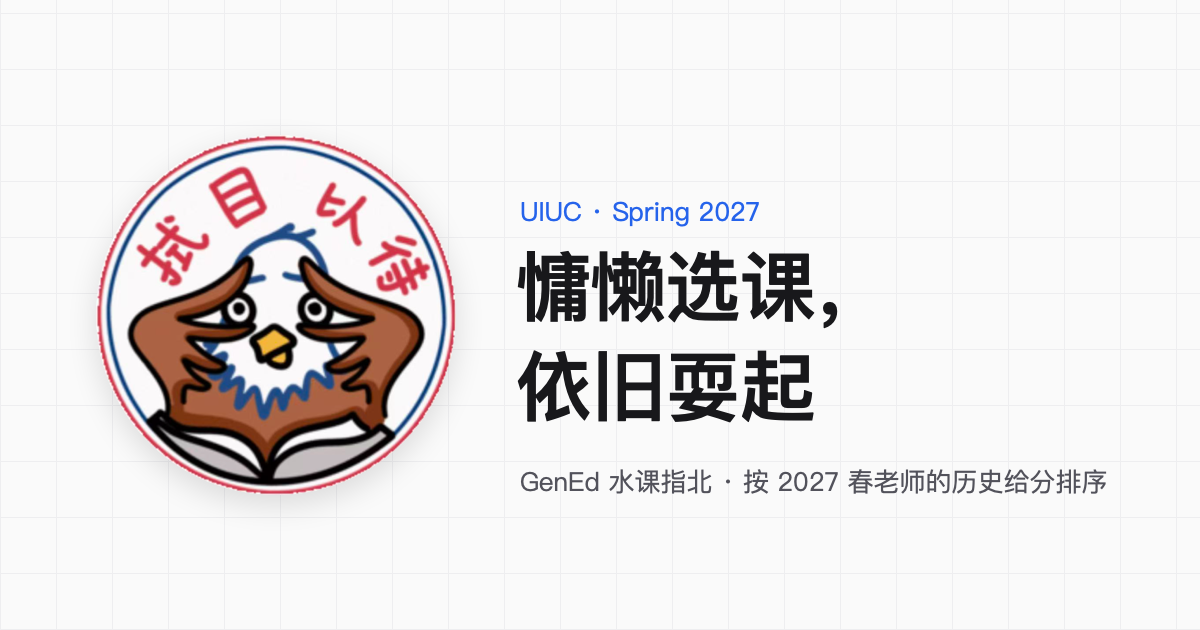
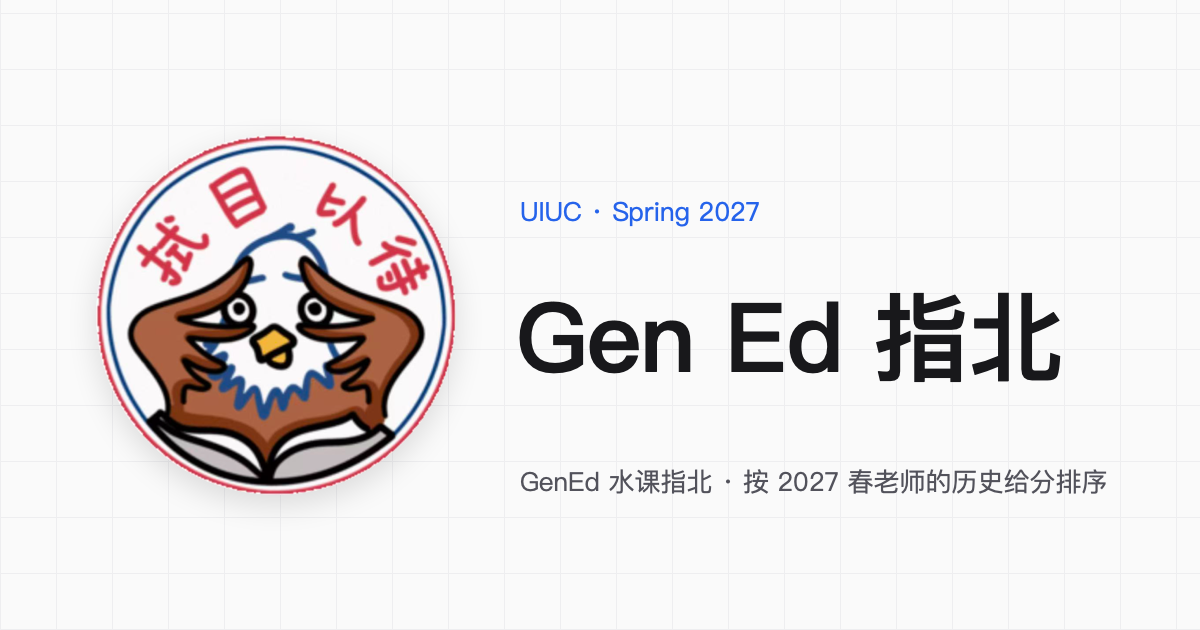
Share card and og:title: Gen Ed 指北

Changed region(s): [[0.4317, 0.3921, 0.8942, 0.6937]]

diff --git a/scripts/brand/make_share_card.swift b/scripts/brand/make_share_card.swift
@@ -27,8 +27,7 @@ let ink = NSColor(srgbRed: 0x18/255, green: 0x18/255, blue: 0x1B/255, alpha: 1)
 let gray = NSColor(srgbRed: 0x52/255, green: 0x52/255, blue: 0x5B/255, alpha: 1)
 let blue = NSColor(srgbRed: 0x25/255, green: 0x63/255, blue: 0xEB/255, alpha: 1)
 text("UIUC · Spring 2027", size: 26, weight: .regular, color: blue, at: NSPoint(x: 520, y: 400))
-text("慵懒选课，", size: 76, weight: .bold, color: ink, at: NSPoint(x: 516, y: 290))
-text("依旧耍起", size: 76, weight: .bold, color: ink, at: NSPoint(x: 516, y: 190))
+text("Gen Ed 指北", size: 96, weight: .bold, color: ink, at: NSPoint(x: 516, y: 225))
 text("GenEd 水课指北 · 按 2027 春老师的历史给分排序", size: 26, weight: .regular, color: gray, at: NSPoint(x: 520, y: 130))
 NSGraphicsContext.restoreGraphicsState()
 try! rep.representation(using: .png, properties: [:])!.write(to: URL(fileURLWithPath: out))

diff --git a/site/index.html b/site/index.html
@@ -11,7 +11,7 @@
   <meta property="og:type" content="website">
   <meta property="og:url" content="https://wzx666296.github.io/easy-courses/">
   <meta property="og:site_name" content="慵懒选课">
-  <meta property="og:title" content="慵懒选课，依旧耍起 · UIUC Spring 2027">
+  <meta property="og:title" content="Gen Ed 指北 · UIUC Spring 2027">
   <meta property="og:description" content="探索 UIUC Spring 2027 Gen Ed 课程，比较历史 GPA、上课时间与通识要求，让选课更轻松。">
   <meta property="og:image" content="https://wzx666296.github.io/easy-courses/img/og.png">
   <meta property="og:image:width" content="1200">
